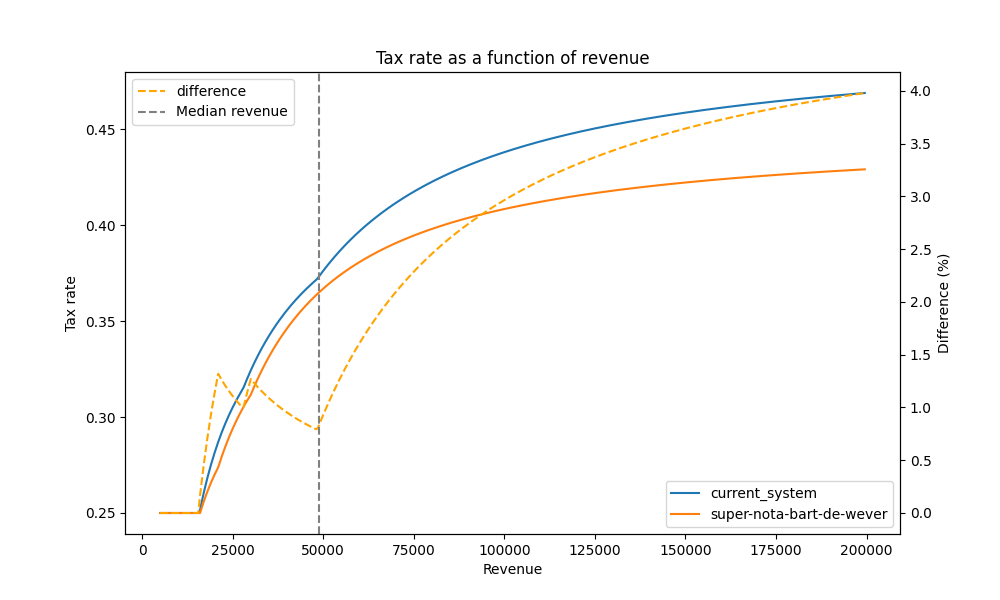
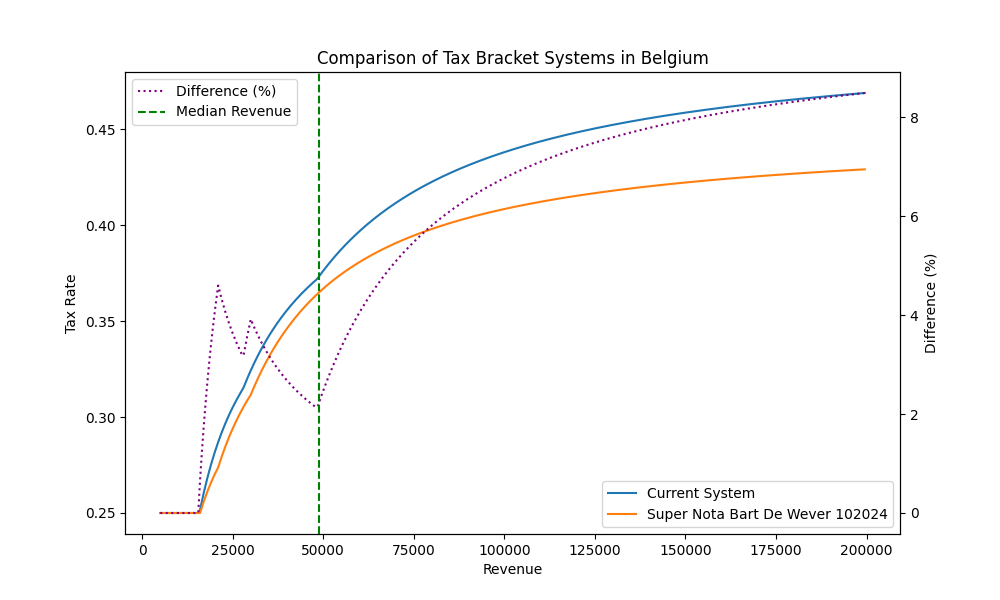
refactoring

diff --git a/imposition.py b/imposition.py
@@ -6,7 +6,7 @@ import os
 # Define tax brackets
 current_tax_brackets = {
     "default_rate": 0.50,
-    "description": "Tranches d'imposition actuelles (revenus 2024 impots 2025)",
+    "description": "Current tax brackets (2024 income, 2025 taxes)",
     "instalments": [
         {"amount": 15820, "rate": 0.25},
         {"amount": 12100, "rate": 0.40},
@@ -16,7 +16,7 @@ current_tax_brackets = {
 
 new_tax_brackets = {
     "default_rate": 0.45,
-    "description": "Nouvelles tranches d'imposition basées sur la proposition de Bart De Wever (N-VA)",
+    "description": "New tax brackets based on Bart De Wever's proposal (N-VA)",
     "instalments": [
         {"amount": 16000, "rate": 0.25},
         {"amount": 5000, "rate": 0.35},
@@ -44,75 +44,61 @@ def calculate_total_tax(revenue, tax_brackets) -> float:
     total_tax += remaining_revenue * tax_brackets['default_rate']
     return total_tax
 
-def generate_tax_report(revenues, systems) -> str:
+def generate_tax_report(revenues, systems) -> pd.DataFrame:
     """
     Generate tax data for given revenues and taxation systems.
     """
-    data = "system_name1,tax1,system_name2,tax2,revenue\n"
+    data = []
     for revenue in revenues:
+        row = {'revenue': revenue}
         for system_name, system in systems.items():
             tax = calculate_total_tax(revenue, system)
-            data += f"{system_name},{tax},"
-        data += f"{revenue}\n"
-    return data
+            row[f'{system_name}_tax'] = tax
+        data.append(row)
+    return pd.DataFrame(data)
 
-def save_report_to_csv(data, file_path) -> None:
+def enrich_data(df) -> pd.DataFrame:
     """
-    Save data to a CSV file.
+    Enrich data from a DataFrame.
     """
-    # delete file if it already exists
-    if os.path.exists(file_path):
-        os.remove(file_path)
-    with open(file_path, 'w') as f:
-        f.write(data)
-        
-def enrich_data(file_path) -> None:
-    """
-    Enrich data from a CSV file.
-    """
-    df = pd.read_csv(file_path)
-    df['rate1'] = df['tax1'] / df['revenue']
-    df['rate2'] = df['tax2'] / df['revenue']
-    df['diff'] = ((df['tax1'] - df['tax2']) / df['revenue']).abs() * 100
-    df.to_csv(file_path, index=False)
-
+    df['rate_super_nota_bart_de_wever_102024'] = df['super_nota_bart_de_wever_102024_tax'] / df['revenue']
+    df['rate_current_system'] = df['current_system_tax'] / df['revenue']
+    df['diff'] = ((df['rate_current_system'] - df['rate_super_nota_bart_de_wever_102024']) / df['rate_current_system']).abs() * 100
+    df.to_csv("./imposition.csv", index=False)
     return df
 
 def plot_tax_report(df, output_image) -> None:
     """
-    Plot tax data from a CSV file and save as an image.
+    Plot tax data from a DataFrame and save as an image.
     """
-
     plt.figure(figsize=(10, 6))
-    plt.plot(df['revenue'], df['rate1'], label='current_system')
-    plt.plot(df['revenue'], df['rate2'], label='super-nota-bart-de-wever')
+    plt.plot(df['revenue'], df['rate_current_system'], label='Current System')
+    plt.plot(df['revenue'], df['rate_super_nota_bart_de_wever_102024'], label='Super Nota Bart De Wever 102024')
     plt.xlabel('Revenue')
-    plt.ylabel('Tax rate')
-    plt.title('Tax rate as a function of revenue')
+    plt.ylabel('Tax Rate')
+    plt.title('Comparison of Tax Bracket Systems in Belgium')
     plt.legend(loc='lower right')
-    # on other axis plot difference between the two systems
-    plt.twinx()
-    
-    plt.plot(df['revenue'], df['diff'], label='difference', color='orange', linestyle='--')
-    plt.ylabel('Difference (%)')
-    
-    # add a line for median revenue at 4,076 euros per month (2022 data statbel)
-    plt.axvline(x=4076 * 12, color='grey', linestyle='--', label='Median revenue')
-    
-    # add legend
+
+    # Plot difference on secondary y-axis
+    ax2 = plt.gca().twinx()
+    ax2.plot(df['revenue'], df['diff'], label='Difference (%)', color='purple', linestyle=':')
+    ax2.set_ylabel('Difference (%)')
+
+    # Add a line for median revenue at 4,076 euros per month (2022 data statbel)
+    plt.axvline(x=4076 * 12, color='green', linestyle='--', label='Median Revenue')
+
+    # Add legend
     plt.legend()
-    
     plt.savefig(output_image)
 
 # Main execution
-revenue_range = range(5000, 200000, 500)
-systems = {
-    "current_system": current_tax_brackets,
-    "super-nota-bart-de-wever": new_tax_brackets
-}
+if __name__ == "__main__":
+    revenue_range = range(5000, 200000, 500)
+    systems = {
+        "current_system": current_tax_brackets,
+        "super_nota_bart_de_wever_102024": new_tax_brackets
+    }
 
-data = generate_tax_report(revenue_range, systems)
-csv_file = "./imposition.csv"
-save_report_to_csv(data, csv_file)
-df = enrich_data(csv_file)
-plot_tax_report(df, 'imposition.png')
+    df = generate_tax_report(revenue_range, systems)
+    df = enrich_data(df)
+    plot_tax_report(df, 'imposition.png')

diff --git a/README.md b/README.md
@@ -1,6 +1,11 @@
-# tax_brakets_belgium
+# Tax Brackets Belgium
 
-experimentations based on https://www.lecho.be/economie-politique/belgique/federal/formation-du-gouvernement-federal-bart-de-wever-veut-supprimer-la-tranche-superieure-d-impots/10569767.html
+This repository contains experimentations based on [this article](https://www.lecho.be/economie-politique/belgique/federal/formation-du-gouvernement-federal-bart-de-wever-veut-supprimer-la-tranche-superieure-d-impots/10569767.html).
 
-## results
+## imposition.py
+
+`imposition.py` is a script that calculates the tax brackets for Belgium. It processes income data and applies the relevant tax rates to determine the tax owed. The script is designed to help understand the impact of proposed changes to the tax system.
+
+## Results
+
 ![imposition.png](imposition.png)
